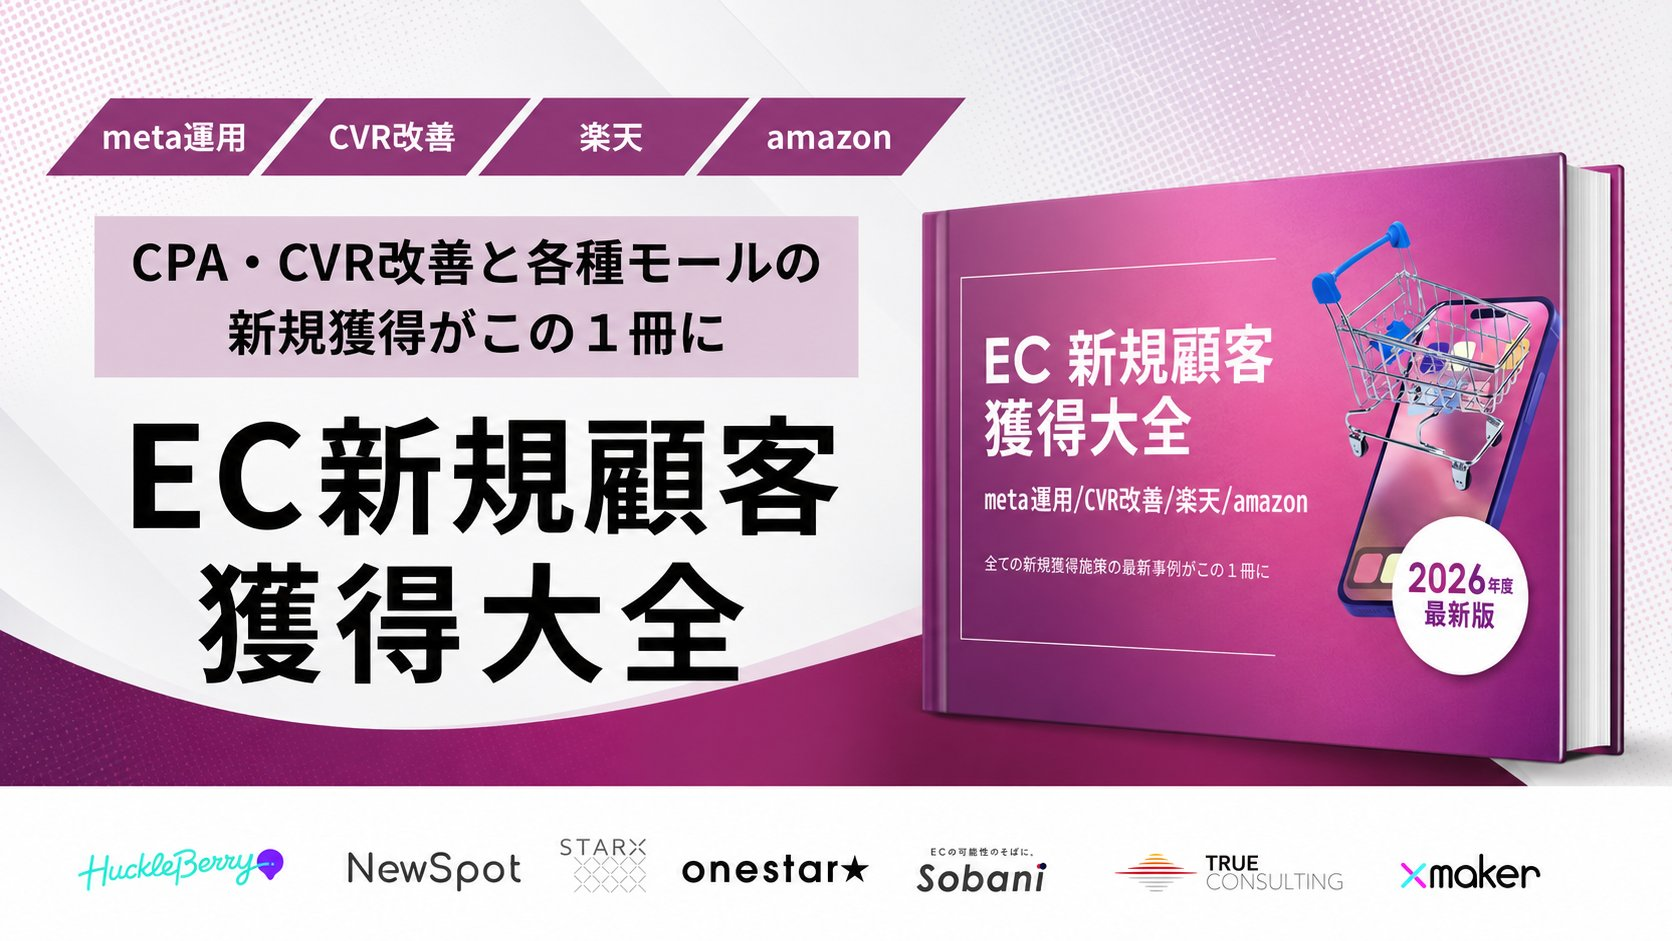
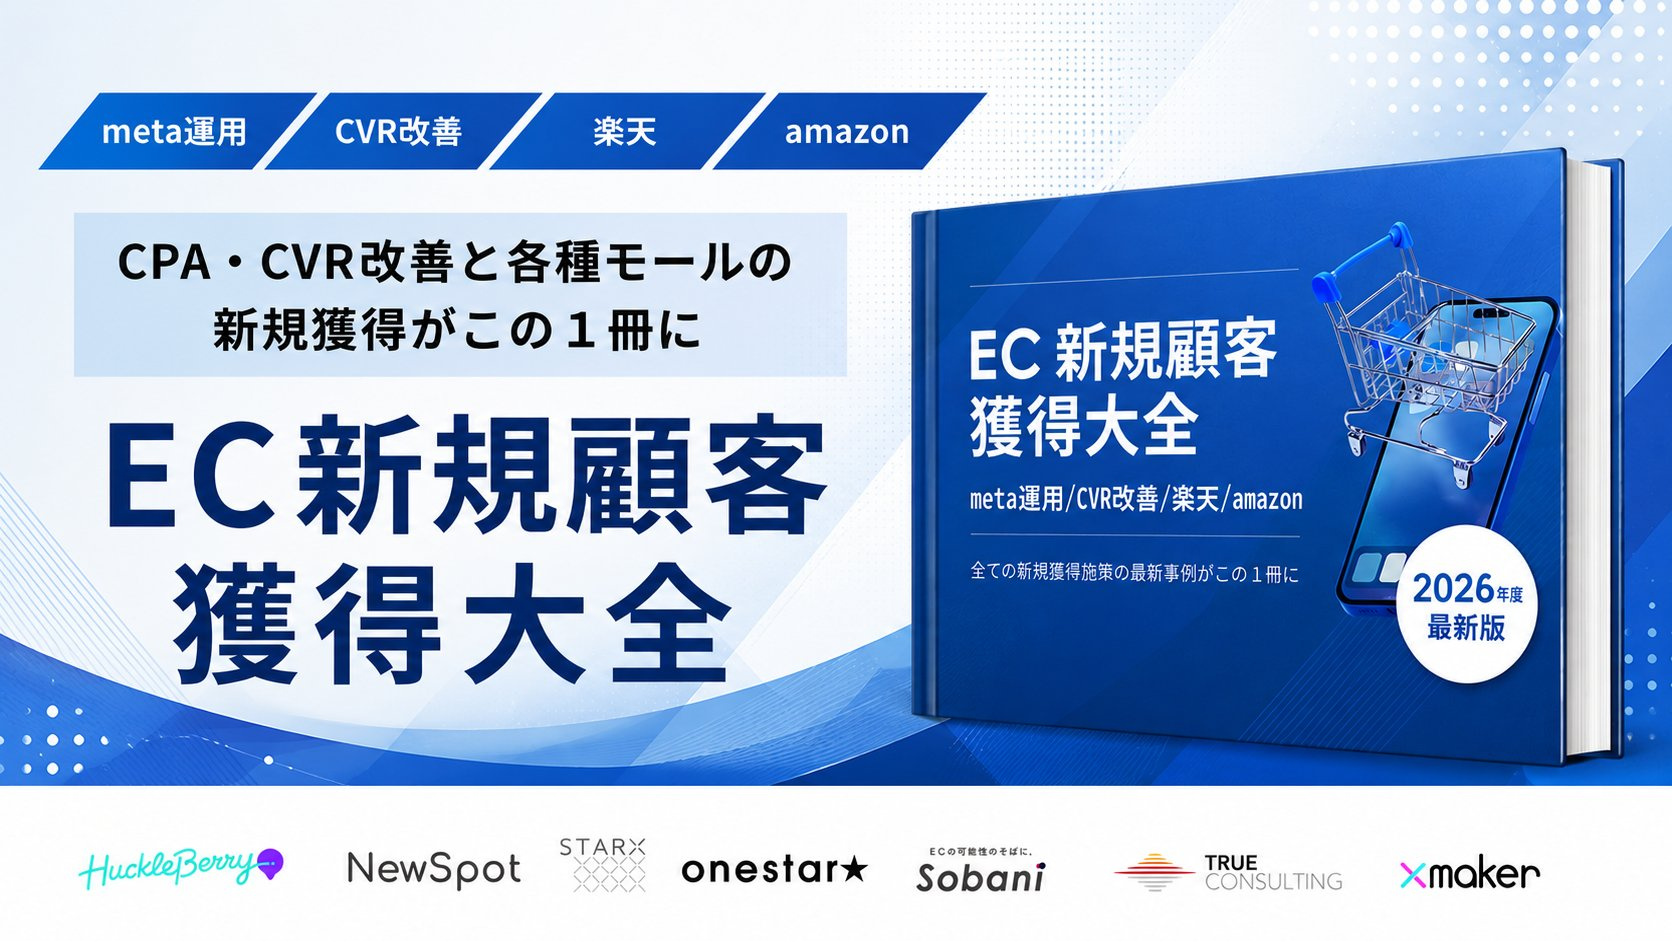
Swap KV to the blue version and retone the page to match
Replaces assets/kv.jpg with the updated blue key visual and switches
the color palette from magenta/purple to blue to match it.

diff --git a/ec-shinki-kakutoku.html b/ec-shinki-kakutoku.html
@@ -11,15 +11,15 @@
 <link rel="stylesheet" href="https://cdn.jsdelivr.net/npm/@tabler/icons-webfont@latest/dist/tabler-icons.min.css">
 <style>
 :root{
-  --primary:#9C2B7A;
-  --primary-dark:#7A1F5F;
-  --text-dark:#1E1522;
-  --text-sub:#5B4A56;
-  --text-muted:#8A7885;
-  --bg-blue:#F7EDF3;
-  --bg-gray:#F9F5F8;
-  --border-blue:#E8C9DD;
-  --border:#ece3e8;
+  --primary:#0A5BC4;
+  --primary-dark:#073E8A;
+  --text-dark:#13213A;
+  --text-sub:#4A5670;
+  --text-muted:#8592A8;
+  --bg-blue:#EAF2FC;
+  --bg-gray:#F5F8FC;
+  --border-blue:#CBE0F7;
+  --border:#e4e8ee;
   --green:#16A34A;
 }
 *{margin:0;padding:0;box-sizing:border-box}

diff --git a/index.html b/index.html
@@ -11,15 +11,15 @@
 <link rel="stylesheet" href="https://cdn.jsdelivr.net/npm/@tabler/icons-webfont@latest/dist/tabler-icons.min.css">
 <style>
 :root{
-  --primary:#9C2B7A;
-  --primary-dark:#7A1F5F;
-  --text-dark:#1E1522;
-  --text-sub:#5B4A56;
-  --text-muted:#8A7885;
-  --bg-blue:#F7EDF3;
-  --bg-gray:#F9F5F8;
-  --border-blue:#E8C9DD;
-  --border:#ece3e8;
+  --primary:#0A5BC4;
+  --primary-dark:#073E8A;
+  --text-dark:#13213A;
+  --text-sub:#4A5670;
+  --text-muted:#8592A8;
+  --bg-blue:#EAF2FC;
+  --bg-gray:#F5F8FC;
+  --border-blue:#CBE0F7;
+  --border:#e4e8ee;
   --green:#16A34A;
 }
 *{margin:0;padding:0;box-sizing:border-box}
